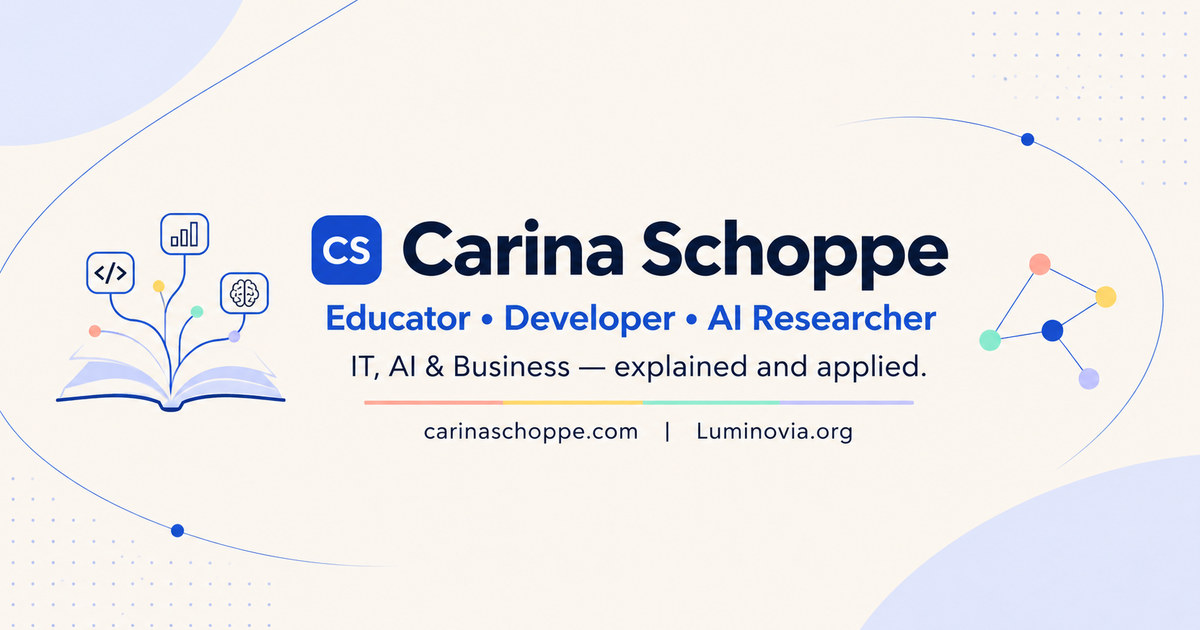
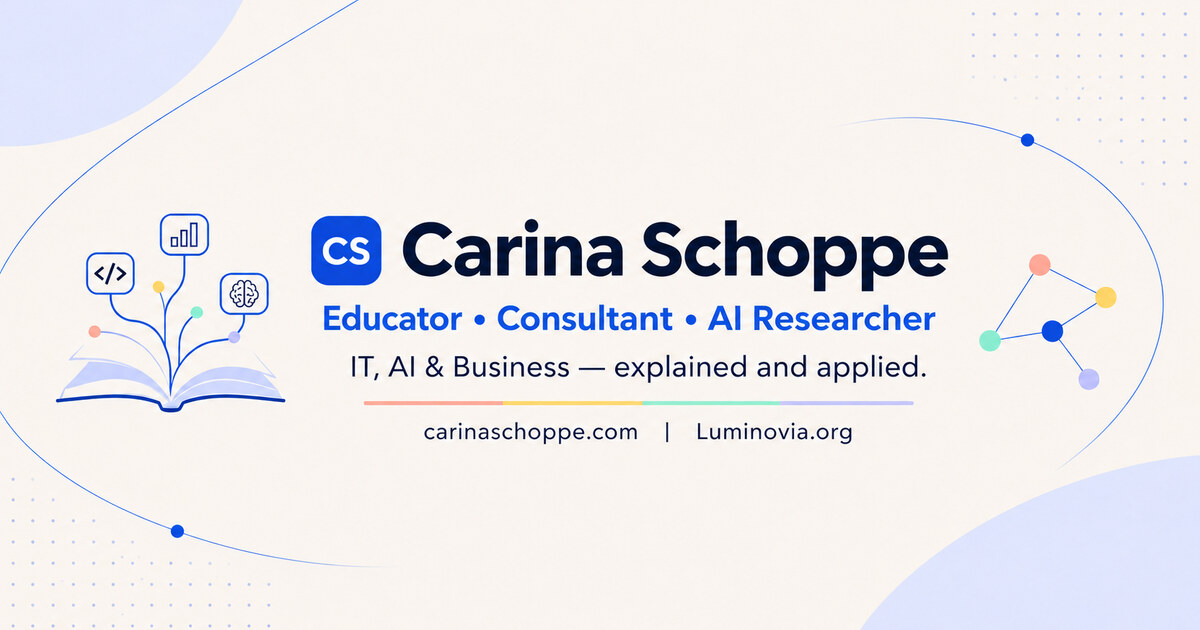
Position Carina as educator, consultant and AI researcher

diff --git a/src/pages/HomePage.jsx b/src/pages/HomePage.jsx
@@ -1,4 +1,4 @@
-import {ArrowRight, ArrowUpRight, BookOpen, Code2, FlaskConical, Globe2, Mail, MapPin, SlidersHorizontal} from "lucide-react";
+import {ArrowRight, ArrowUpRight, BookOpen, Compass, FlaskConical, Globe2, Mail, MapPin, SlidersHorizontal} from "lucide-react";
 import {Link} from "react-router-dom";
 import Photo from "../components/Photo.jsx";
 import ReferencesSection from "../components/ReferencesSection.jsx";
@@ -8,14 +8,14 @@ import {selectedWork} from "../data/selectedWork.js";
 import {useLanguage} from "../i18n.jsx";
 import "./home.css";
 
-const capabilityIcons = [BookOpen, Code2, FlaskConical];
+const capabilityIcons = [BookOpen, Compass, FlaskConical];
 const capabilityTones = ["butter", "mint", "sky"];
 const projectIcons = {mail: Mail, openxlr: SlidersHorizontal};
 
 const copy = {
     de: {
-        role: "IT-Dozentin und Softwareentwicklerin",
-        intro: "Ich unterrichte IT und Wirtschaft, entwickle Software für Literaturreviews und untersuche, wie Menschen generative KI bei der Arbeit einsetzen.",
+        role: "Dozentin · Beraterin · KI-Forscherin",
+        intro: "Ich vermittle IT- und Wirtschaftswissen, berate zum Einsatz digitaler Technologien und erforsche, wie Menschen generative KI bei der Arbeit nutzen.",
         location: "Brisbane, Australien",
         languages: "Deutsch & Englisch",
         portraitAlt: "Porträt von Carina Sophie Schoppe",
@@ -29,10 +29,10 @@ const copy = {
             ["M.Sc. & MBA", "Zwei Masterabschlüsse"],
         ],
         credentials: "Alle Qualifikationen",
-        focus: "Lehre, Software und Forschung",
+        focus: "Lehre, Beratung und KI-Forschung",
         capabilities: [
             ["Lehrthemen", "Von Netzwerken und KI bis zu Buchhaltung und Datenschutz.", "/skills#unterricht"],
-            ["Softwareentwicklung", "Eigene Werkzeuge und Beiträge zu Open Source.", "/projects"],
+            ["Beratung", "Technologie einordnen und KI verantwortungsvoll im Arbeitsalltag einsetzen.", "/about#about-business"],
             ["Publikationen", "Forschung zu generativer KI, Arbeitsalltag und IT-Sicherheit.", "/skills#publications"],
         ],
         selected: "Ausgewählte Projekte",
@@ -46,15 +46,15 @@ const copy = {
         writing: "Fachtexte",
         allWriting: "Alle Texte",
         contactTitle: "Lass uns austauschen",
-        contactCopy: "Schreib mir zu Forschung, Software oder Open Source.",
+        contactCopy: "Schreib mir zu Lehre, KI-Forschung oder fachlichem Austausch.",
         linkedin: "Mein LinkedIn-Profil",
         businessLabel: "Mein Unternehmen",
         businessCopy: "Trainings, Beratung und Buchungen laufen über Luminovia.",
         businessLink: "Luminovia kontaktieren",
     },
     en: {
-        role: "IT lecturer and software developer",
-        intro: "I teach IT and business, build software for literature reviews and study how people use generative AI at work.",
+        role: "Educator · Consultant · AI Researcher",
+        intro: "I teach IT and business, advise on the use of digital technologies and research how people use generative AI at work.",
         location: "Brisbane, Australia",
         languages: "English & German",
         portraitAlt: "Portrait of Carina Sophie Schoppe",
@@ -68,10 +68,10 @@ const copy = {
             ["MSc & MBA", "Two master’s degrees"],
         ],
         credentials: "All qualifications",
-        focus: "Teaching, software and research",
+        focus: "Education, consulting and AI research",
         capabilities: [
             ["Teaching topics", "From networking and AI to bookkeeping and data protection.", "/skills#unterricht"],
-            ["Software development", "Tools I build and contributions to open source.", "/projects"],
+            ["Consulting", "Making sense of technology and using AI responsibly at work.", "/about#about-business"],
             ["Publications", "Research on generative AI, work and cybersecurity.", "/skills#publications"],
         ],
         selected: "Selected projects",
@@ -85,7 +85,7 @@ const copy = {
         writing: "Articles",
         allWriting: "All articles",
         contactTitle: "Get in touch",
-        contactCopy: "I’m happy to talk about research, software and open source.",
+        contactCopy: "I’m happy to talk about education, AI research and ideas we can explore together.",
         linkedin: "My LinkedIn profile",
         businessLabel: "My business",
         businessCopy: "Luminovia handles training, consulting and bookings.",

diff --git a/index.html b/index.html
@@ -3,22 +3,22 @@
 <head>
     <meta charset="UTF-8"/>
     <meta content="width=device-width, initial-scale=1.0" name="viewport"/>
-    <meta content="Das persönliche Portfolio von Carina Sophie Schoppe, IT-Dozentin, Softwareentwicklerin und Luminovia-Gründerin. Werdegang, Interessen und Projekte." name="description"/>
+    <meta content="Das persönliche Portfolio von Carina Sophie Schoppe, Dozentin, Beraterin, KI-Forscherin und Luminovia-Gründerin. Werdegang, Interessen und Projekte." name="description"/>
     <meta content="index, follow, max-image-preview:large" name="robots"/>
     <meta content="website" property="og:type"/>
     <meta content="Carina Sophie Schoppe | Portfolio" property="og:title"/>
-    <meta content="Das persönliche Portfolio von Carina Sophie Schoppe. Interessen, Werdegang, Lehre und Softwareprojekte der Luminovia-Gründerin." property="og:description"/>
+    <meta content="Das persönliche Portfolio von Carina Sophie Schoppe. Lehre, Beratung, KI-Forschung und Werdegang der Luminovia-Gründerin." property="og:description"/>
     <meta content="https://carinaschoppe.com/" property="og:url"/>
-    <meta content="https://carinaschoppe.com/images/carina-og.jpg?v=20261111" property="og:image"/>
+    <meta content="https://carinaschoppe.com/images/carina-educator-consultant-ai-researcher.jpg" property="og:image"/>
     <meta content="1200" property="og:image:width"/>
     <meta content="630" property="og:image:height"/>
     <meta content="image/jpeg" property="og:image:type"/>
-    <meta content="Carina Schoppe – Educator, Developer, AI Researcher. IT, AI &amp; Business – explained and applied." property="og:image:alt"/>
+    <meta content="Carina Schoppe – Educator, Consultant, AI Researcher. IT, AI &amp; Business – explained and applied." property="og:image:alt"/>
     <meta content="summary_large_image" name="twitter:card"/>
-    <meta content="https://carinaschoppe.com/images/carina-og.jpg?v=20261111" name="twitter:image"/>
-    <meta content="Carina Schoppe – Educator, Developer, AI Researcher. IT, AI &amp; Business – explained and applied." name="twitter:image:alt"/>
+    <meta content="https://carinaschoppe.com/images/carina-educator-consultant-ai-researcher.jpg" name="twitter:image"/>
+    <meta content="Carina Schoppe – Educator, Consultant, AI Researcher. IT, AI &amp; Business – explained and applied." name="twitter:image:alt"/>
     <meta content="Carina Sophie Schoppe | Portfolio" name="twitter:title"/>
-    <meta content="Das persönliche Portfolio von Carina Sophie Schoppe. Interessen, Werdegang, Lehre und Softwareprojekte der Luminovia-Gründerin." name="twitter:description"/>
+    <meta content="Das persönliche Portfolio von Carina Sophie Schoppe. Lehre, Beratung, KI-Forschung und Werdegang der Luminovia-Gründerin." name="twitter:description"/>
     <link href="https://carinaschoppe.com/" rel="canonical"/>
     <link href="/favicon.ico" rel="icon" sizes="16x16 32x32 48x48"/>
     <link href="/favicon.png" rel="icon" type="image/png" sizes="48x48"/>
@@ -43,7 +43,7 @@
                 "addressRegion": "QLD",
                 "addressCountry": "AU"
             },
-            "jobTitle": "Lecturer in IT, AI and Business Information Systems",
+            "jobTitle": "Educator, Consultant and AI Researcher",
             "knowsLanguage": ["German", "English", "Spanish"],
             "sameAs": [
                 "https://www.linkedin.com/in/carinaschoppe/",

diff --git a/src/components/Seo.jsx b/src/components/Seo.jsx
@@ -5,14 +5,14 @@ import {PROFILE} from "../data/profile.js";
 import {canonicalUrl, SITE_URL} from "../data/siteUrls.js";
 import {useLanguage} from "../i18n.jsx";
 
-const DEFAULT_IMAGE = `${SITE_URL}/images/carina-og.jpg?v=20261111`;
-const IMAGE_ALT = "Carina Schoppe – Educator, Developer, AI Researcher. IT, AI & Business – explained and applied.";
+const DEFAULT_IMAGE = `${SITE_URL}/images/carina-educator-consultant-ai-researcher.jpg`;
+const IMAGE_ALT = "Carina Schoppe – Educator, Consultant, AI Researcher. IT, AI & Business – explained and applied.";
 
 const routeMeta = {
     en: {
         "/": {
             title: "Carina Sophie Schoppe | Portfolio",
-            description: "The personal portfolio of Carina Sophie Schoppe, an IT lecturer, software developer and founder of Luminovia. Explore her story, interests and work.",
+            description: "The personal portfolio of Carina Sophie Schoppe, an educator, consultant, AI researcher and founder of Luminovia. Explore her story, interests and work.",
         },
         "/projects": {
             title: "Projects | Carina Sophie Schoppe",
@@ -40,7 +40,7 @@ const routeMeta = {
         },
         "/about": {
             title: "About | Carina Sophie Schoppe",
-            description: "Meet Carina Sophie Schoppe, IT lecturer, software developer and founder of Luminovia Training & Consulting. Explore her background and LinkedIn profile.",
+            description: "Meet Carina Sophie Schoppe, educator, consultant, AI researcher and founder of Luminovia Training & Consulting. Explore her background and LinkedIn profile.",
         },
         "/blog": {
             title: "Blog | Carina Sophie Schoppe",
@@ -62,7 +62,7 @@ const routeMeta = {
     de: {
         "/": {
             title: "Carina Sophie Schoppe | Portfolio",
-            description: "Das persönliche Portfolio von Carina Sophie Schoppe, IT-Dozentin, Softwareentwicklerin und Luminovia-Gründerin. Werdegang, Interessen und Projekte.",
+            description: "Das persönliche Portfolio von Carina Sophie Schoppe, Dozentin, Beraterin, KI-Forscherin und Luminovia-Gründerin. Werdegang, Interessen und Projekte.",
         },
         "/projects": {
             title: "Projekte | Carina Sophie Schoppe",
@@ -90,7 +90,7 @@ const routeMeta = {
         },
         "/about": {
             title: "Über Carina | Carina Sophie Schoppe",
-            description: "Carina Sophie Schoppe ist IT-Dozentin, Softwareentwicklerin und Gründerin von Luminovia Training & Consulting. Persönlicher Werdegang und LinkedIn-Profil.",
+            description: "Carina Sophie Schoppe ist Dozentin, Beraterin, KI-Forscherin und Gründerin von Luminovia Training & Consulting. Persönlicher Werdegang und LinkedIn-Profil.",
         },
         "/blog": {
             title: "Blog | Carina Sophie Schoppe",
@@ -161,7 +161,7 @@ function buildPersonSchema() {
         url: `${SITE_URL}/`,
         image: `${SITE_URL}/images/carina-outdoor.jpg`,
         email: PROFILE.email,
-        jobTitle: "IT lecturer and software developer",
+        jobTitle: "Educator, Consultant and AI Researcher",
         address: {
             "@type": "PostalAddress",
             addressLocality: "Brisbane",

diff --git a/src/pages/AboutPage.jsx b/src/pages/AboutPage.jsx
@@ -12,7 +12,7 @@ const prismaProject = selectedWork.find(({id}) => id === "prisma");
 const copy = {
     de: {
         kicker: "Über mich",
-        intro: "Ich plane Kurse für Erwachsene mit Blick auf den Arbeitsalltag. Eine Übung ist für mich gelungen, wenn Teilnehmende das Gelernte auch auf einen anderen Fall übertragen können.",
+        intro: "Ich verbinde Lehre, Beratung und KI-Forschung. Dabei interessiert mich, wie Menschen Technologie verstehen und sinnvoll bei der Arbeit einsetzen. Aus Forschung werden so konkrete Lernaufgaben und Orientierung für die Praxis.",
         location: "Brisbane, Australien",
         portrait: "Porträt von Carina Sophie Schoppe",
         career: "Zum Werdegang",
@@ -45,7 +45,7 @@ const copy = {
     },
     en: {
         kicker: "About me",
-        intro: "I plan courses for adults around the kind of problems people face at work. An exercise has done its job when learners can apply what they’ve learnt to a different case.",
+        intro: "I bring together education, consulting and AI research. I’m interested in how people understand technology and put it to work. My research informs practical learning activities and helps people make informed decisions.",
         location: "Brisbane, Australia",
         portrait: "Portrait of Carina Sophie Schoppe",
         career: "See my career timeline",
@@ -155,7 +155,7 @@ export default function AboutPage() {
                 </div>
             </section>
 
-            <section className="about-business" aria-labelledby="about-business-title">
+            <section className="about-business" id="about-business" tabIndex={-1} aria-labelledby="about-business-title">
                 <img className="about-business-logo" src={IMAGES.luminoviaLogoFull} alt="" width="208" height="208" loading="lazy"/>
                 <div>
                     <h2 id="about-business-title">Luminovia Training &amp; Consulting</h2>

diff --git a/src/App.test.jsx b/src/App.test.jsx
@@ -16,7 +16,7 @@ describe("App routing and language", () => {
         render(<App/>);
 
         expect(await screen.findByRole("heading", {name: /^Carina Sophie Schoppe$/i})).toBeInTheDocument();
-        expect(screen.getByRole("heading", {name: "Lehre, Software und Forschung"})).toBeInTheDocument();
+        expect(screen.getByRole("heading", {name: "Lehre, Beratung und KI-Forschung"})).toBeInTheDocument();
         expect(screen.getByRole("region", {name: "Referenzen"})).toHaveAttribute("id", "referenzen");
         expect(screen.getByRole("link", {name: "Projekte ansehen"})).toHaveAttribute("href", "/#arbeit");
         expect(screen.getByRole("link", {name: "Training bei Luminovia"})).toHaveAttribute("href", "https://luminovia.org/training/#details");
@@ -30,7 +30,7 @@ describe("App routing and language", () => {
         await user.click(screen.getByRole("button", {name: /Sprache auf Englisch wechseln/i}));
 
         expect(screen.getByRole("heading", {name: /^Carina Sophie Schoppe$/i})).toBeInTheDocument();
-        expect(screen.getByRole("heading", {name: "Teaching, software and research"})).toBeInTheDocument();
+        expect(screen.getByRole("heading", {name: "Education, consulting and AI research"})).toBeInTheDocument();
         expect(screen.getByRole("region", {name: "References"})).toHaveAttribute("id", "referenzen");
         expect(screen.getByRole("link", {name: /^Teaching topics From networking/i})).toHaveAttribute("href", "/skills#unterricht");
         expect(screen.getByRole("region", {name: "Selected projects"})).toHaveAttribute("id", "arbeit");

diff --git a/src/pages/MyWayPage.jsx b/src/pages/MyWayPage.jsx
@@ -18,7 +18,7 @@ export default function MyWayPage() {
         ? {
             badge: "Werdegang",
             title: "Mein beruflicher Weg durch IT, Wirtschaft und Bildung.",
-            intro: "Ich bin in Bodenwerder im Weserbergland aufgewachsen und ging in Holzminden zur Schule. Heute unterrichte ich von Brisbane aus auf Deutsch und Englisch.",
+            intro: "Ich bin in Bodenwerder im Weserbergland aufgewachsen und ging in Holzminden zur Schule. Heute verbinde ich von Brisbane aus Lehre, Beratung und KI-Forschung – auf Deutsch und Englisch.",
             back: "Zurück zu meinem Profil",
             linkedin: "Mein LinkedIn-Profil",
             credentials: "Abschlüsse und Nachweise ansehen",
@@ -33,7 +33,7 @@ export default function MyWayPage() {
         : {
             badge: "My background",
             title: "My professional path through technology, business and education.",
-            intro: "I grew up in Bodenwerder in Germany’s Weserbergland region and went to school in Holzminden. Today I teach in English and German from Brisbane.",
+            intro: "I grew up in Bodenwerder in Germany’s Weserbergland region and went to school in Holzminden. Today I bring together education, consulting and AI research from Brisbane, working in English and German.",
             back: "Back to my profile",
             linkedin: "My LinkedIn profile",
             credentials: "View degrees and credentials",

diff --git a/vite.config.js b/vite.config.js
@@ -13,7 +13,7 @@ const prerenderRoutes = [
     ["/skills", "Lehrthemen und Kompetenzen | Carina Sophie Schoppe", "Unterricht zu KI, IT-Sicherheit, Software, Datenbanken, Netzwerken, Wirtschaft, Buchhaltung, Arbeitsrecht und Datenschutz mit Beispielen aus der Praxis."],
     ["/credentials", "Nachweise | Carina Sophie Schoppe", "Abschlüsse, Zertifikate und fachliche Nachweise von Carina Sophie Schoppe, darunter B.Sc., M.Sc., MBA, TAE40122 und AI-Zertifikate."],
     ["/my-way", "Werdegang | Carina Sophie Schoppe", "Carina Sophie Schoppes Lebenslauf und Werdegang von Wirtschaftsinformatik und Lehre in Deutschland bis zu Software, KI-Forschung und Luminovia in Brisbane."],
-    ["/about", "Über Carina | Carina Sophie Schoppe", "Carina Sophie Schoppe ist IT-Dozentin, Softwareentwicklerin und Gründerin von Luminovia Training & Consulting. Persönlicher Werdegang und LinkedIn-Profil."],
+    ["/about", "Über Carina | Carina Sophie Schoppe", "Carina Sophie Schoppe ist Dozentin, Beraterin, KI-Forscherin und Gründerin von Luminovia Training & Consulting. Persönlicher Werdegang und LinkedIn-Profil."],
     ["/blog", "Blog | Carina Sophie Schoppe", "Texte von Carina Sophie Schoppe zu AI, Governance, digitaler Bildung, Projektarbeit, Cybersecurity, Automationsrisiken und moderner Arbeit."],
     ...blogIndexForLanguage("de").map(({slug, title, excerpt}) => [
         `/blog/${slug}`,

diff --git a/src/components/Footer.jsx b/src/components/Footer.jsx
@@ -7,13 +7,13 @@ export default function Footer() {
     const {language, t} = useLanguage();
     const labels = language === "de"
         ? {
-            summary: "IT-Dozentin, Wirtschaftsinformatikerin und Gründerin von Luminovia. In Brisbane zu Hause, auf Deutsch und Englisch tätig.",
+            summary: "Dozentin, Beraterin und KI-Forscherin. Gründerin von Luminovia, in Brisbane zu Hause und auf Deutsch und Englisch tätig.",
             portfolio: "Auf dieser Seite",
             business: "Mein Unternehmen",
             businessContact: "Geschäftliche Anfragen",
         }
         : {
-            summary: "IT lecturer, business information systems specialist, and founder of Luminovia. Based in Brisbane, working in German and English.",
+            summary: "Educator, consultant and AI researcher. Founder of Luminovia, based in Brisbane and working in English and German.",
             portfolio: "On this site",
             business: "My business",
             businessContact: "Business enquiries",

diff --git a/src/data/profile.js b/src/data/profile.js
@@ -7,7 +7,7 @@ const luminovia = "https://luminovia.org";
 export const PROFILE = {
     name: "Carina Sophie Schoppe",
     founder: "Carina Sophie Schoppe",
-    role: "Portfolio for software, research, teaching and digital education",
+    role: "Educator, Consultant and AI Researcher",
     location: "Brisbane, Australia",
     addressLines: ["43/9 Eduard Place", "4116 Calamvale", "Brisbane, Australia"],
     remote: "Personal portfolio based in Brisbane",

diff --git a/README.md b/README.md
@@ -56,7 +56,7 @@ The project is GitHub Pages compatible:
 
 - The personal portfolio uses a neutral palette with colour accents and the locally served Manrope typeface. Its OFL notice is in `public/fonts/`.
 - The home page and biography use the original portraits in `public/images/`, with responsive WebP variants. The homepage illustrations follow the documented PRISMA and Automatic Mail Sender workflows. The OpenXLR screenshot is credited on the project page.
-- The supplied `Colorful CS Monogram` is used for the header and browser/touch icons. `public/images/carina-og.jpg` is a compressed 1200 × 630 share preview from the supplied `Carina Schoppe_ Elegant Learning in Motion.png`; the crop removes only background at the top and bottom. Static and client-rendered Open Graph and Twitter metadata use this preview. The Person schema retains the original portrait.
+- The supplied `Colorful CS Monogram` is used for the header and browser/touch icons. `public/images/carina-educator-consultant-ai-researcher.jpg` is a compressed 1200 × 630 share preview from the supplied `Carina Schoppe_ Elegant Learning in Motion.png`; the crop removes only background at the top and bottom. Static and client-rendered Open Graph and Twitter metadata use this preview with the current Educator, Consultant and AI Researcher positioning. The Person schema retains the original portrait.
 - The default is the light palette. Visitors can save a different appearance and switch between German and English.
 - Luminovia uses the supplied compact icon on Home and Contact. The About page uses the supplied full logo as a 416 px WebP, displayed at 208 px with reserved dimensions and lazy loading.
 - GitHub Pages deploys automatically when changes reach `main`. Review branches and draft pull requests leave the live site unchanged.
